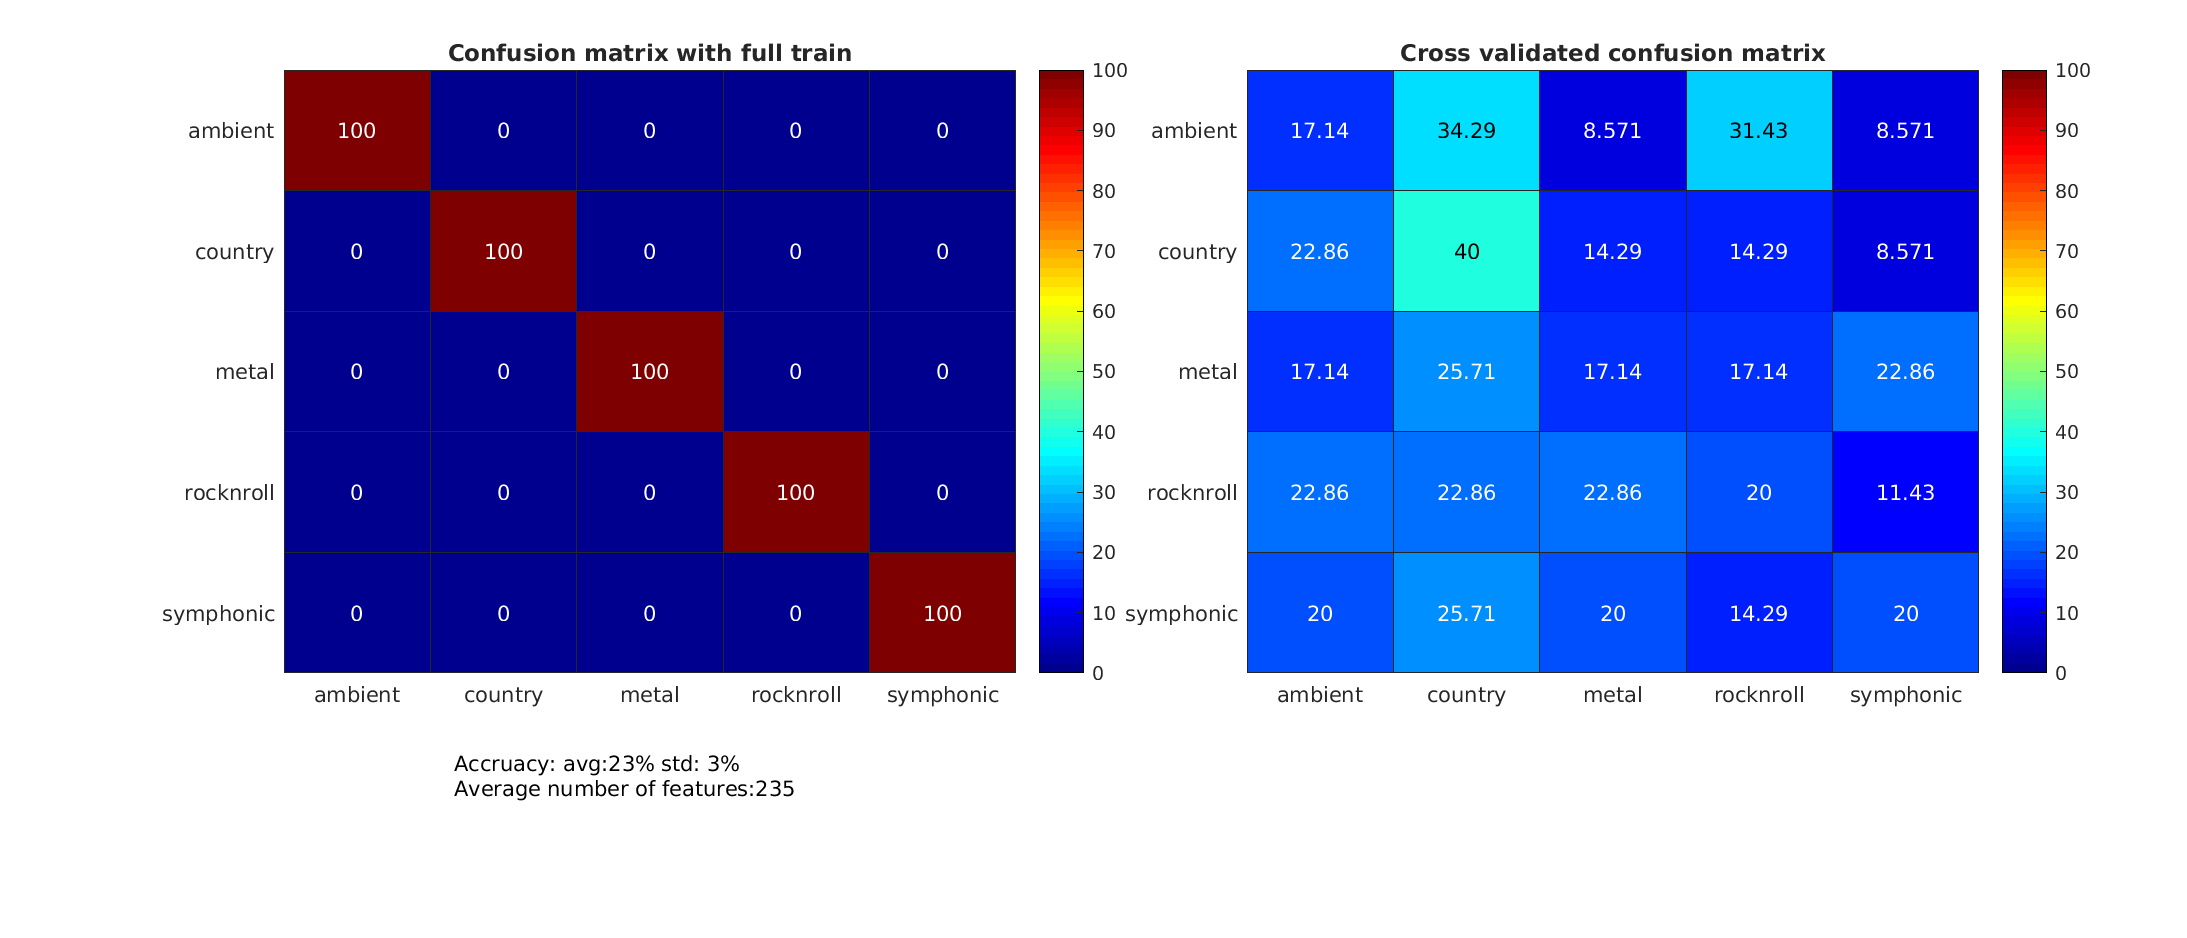
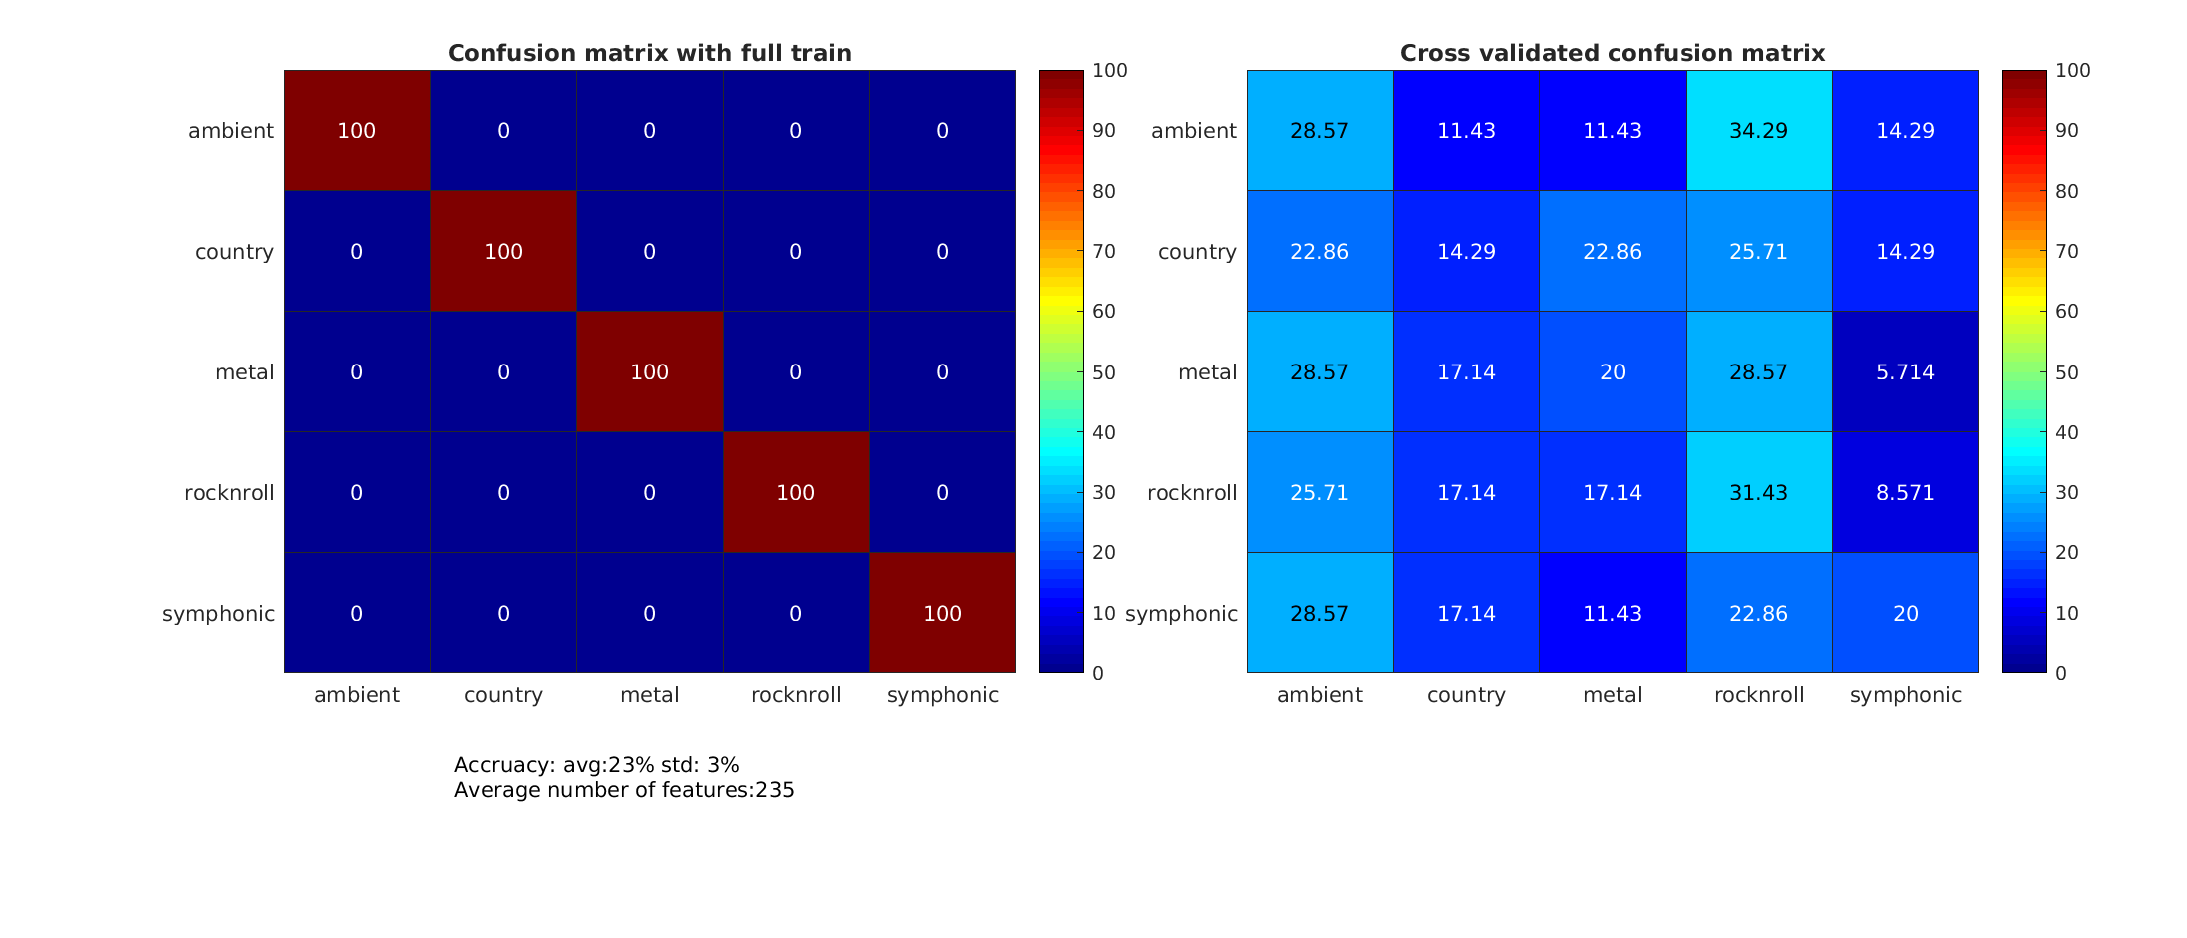
Complete phase4

Changed region(s): [[0.5597, 0.0618, 0.9017, 0.742], [0.2176, 0.8038, 0.3731, 0.8657]]

diff --git a/functions/analyzeForThreshold.m b/functions/analyzeForThreshold.m
@@ -1,10 +1,12 @@
-function Predicted_Label = analyzeForThreshold(...
+function [Predicted_Label, train_accr, val_accr] = analyzeForThreshold(...
     train_X, ...
     train_y, ...
     test_X, ...
     p_values_cross_val, ...
     p_values_no_cross_val, ...
-    threshold)
+    threshold, ...
+    model_type, ...
+    generate_pic)
 
     %load root
     [folder, ~, ~] = fileparts(which('analyzeForThreshold'));
@@ -12,11 +14,13 @@ function Predicted_Label = analyzeForThreshold(...
     %create file for output
     [status, ~, ~] = mkdir(strcat(root,'output'));
     assert(status == 1, 'output directory creation failed');
-    [status, ~, ~] = mkdir(strcat(root,'output/LDA/'));
+    [status, ~, ~] = mkdir(strcat(root,'output/', model_type));
     assert(status == 1, 'output directory creation failed');
+    
+    labels = {'ambient', 'country', 'metal', 'rocknroll', 'symphonic'};
 
-    predict_y = trainModel(train_X, train_y, train_X, p_values_no_cross_val, threshold);
-    confusion_matrix_no_cross_val = confusionmat(train_y, predict_y);
+    predict_y = trainModel(train_X, train_y, train_X, p_values_no_cross_val, threshold, model_type);
+    confusion_matrix_no_cross_val = confusionmat(train_y, predict_y, 'order', labels);
 
     confusion_matrix = zeros(5, 5);
     accuracies = zeros(1, 5);
@@ -28,12 +32,15 @@ function Predicted_Label = analyzeForThreshold(...
         train_crop_y = train_y(~out_data);
         val_X = train_X(out_data,:);
         val_y = train_y(out_data);
-        predict_y = trainModel(train_crop_X, train_crop_y, val_X, p_values_cross_val{i}, threshold);
-        cur_conf_mat = confusionmat(val_y, predict_y);
+        predict_y = trainModel(train_crop_X, train_crop_y, val_X, p_values_cross_val{i}, threshold, model_type);
+        cur_conf_mat = confusionmat(val_y, predict_y, 'order', labels);
         accuracies(i) = trace(cur_conf_mat) / 25;
         confusion_matrix = confusion_matrix + cur_conf_mat;
     end
     confusion_matrix = confusion_matrix / 7;
+    
+    train_accr = trace(confusion_matrix_no_cross_val) / (7 * 25);
+    val_accr = mean(accuracies);
 
     avg_features = 0;
     for i = 1:7
@@ -41,11 +48,13 @@ function Predicted_Label = analyzeForThreshold(...
     end
     avg_features = avg_features / 7;
     
-    Predicted_Label = trainModel(train_X, train_y, test_X, p_values_no_cross_val, threshold);
-    
+    Predicted_Label = trainModel(train_X, train_y, test_X, p_values_no_cross_val, threshold, model_type);
+    if ~generate_pic
+        return
+    end
     f1 = figure('visible', 'off');
     
-    labels = {'ambient', 'country', 'metal', 'rocknroll', 'symphonic'};
+    
     
     subplot(5, 2, [1 3 5 7]);
     heatmap(labels, labels, confusion_matrix_no_cross_val / 35 * 100, 'colormap', jet, 'ColorLimits', [0 100]);
@@ -67,6 +76,6 @@ function Predicted_Label = analyzeForThreshold(...
 
     f1.Position(3) = 1400;
     f1.Position(4) = 600;
-    saveas(f1, strcat(root,'output/LDA/', strrep(num2str(threshold, '%.3f'), '.', '_'), '.png'));
+    saveas(f1, strcat(root,'output/', model_type, '/', strrep(num2str(threshold, '%.3f'), '.', '_'), '.png'));
     close(f1);
 end

diff --git a/functions/trainModel.m b/functions/trainModel.m
@@ -1,12 +1,29 @@
-function test_y = trainModel(train_X, train_y, test_X, p_values, threshold)
+function test_y = trainModel(train_X, train_y, test_X, p_values, threshold, model_type)
     nonzero_features = any(train_X);
     train_X = train_X(:, nonzero_features);
     test_X = test_X(:, nonzero_features);
-    model = fitcdiscr(train_X(:, p_values < threshold), train_y);
-    test_y = model.predict(test_X(:, p_values < threshold));
-    assert(strcmp(model.ClassNames{1}, 'ambient') == 1);
-    assert(strcmp(model.ClassNames{2}, 'country') == 1);
-    assert(strcmp(model.ClassNames{3}, 'metal') == 1);
-    assert(strcmp(model.ClassNames{4}, 'rocknroll') == 1);
-    assert(strcmp(model.ClassNames{5}, 'symphonic') == 1);
+    train_X = train_X(:, p_values < threshold);
+    test_X = test_X(:, p_values < threshold);
+    if strcmp(model_type, 'LDA') == 1
+        model = fitcdiscr(train_X, train_y);
+        test_y = model.predict(test_X);
+        assert(strcmp(model.ClassNames{1}, 'ambient') == 1);
+        assert(strcmp(model.ClassNames{2}, 'country') == 1);
+        assert(strcmp(model.ClassNames{3}, 'metal') == 1);
+        assert(strcmp(model.ClassNames{4}, 'rocknroll') == 1);
+        assert(strcmp(model.ClassNames{5}, 'symphonic') == 1);
+    else
+        labels = {'ambient', 'country', 'metal', 'rocknroll', 'symphonic'};
+        predict_score = zeros(size(test_X, 1), size(labels, 2));
+        for i = 1:size(labels, 2)
+            model = fitcsvm(train_X, strcmp(train_y, labels{i}));
+            [~, tmp] = model.predict(test_X);
+            predict_score(:, i) = tmp(:, 2);
+        end
+        [~, idx] = max(predict_score, [], 2);
+        test_y = cell(size(test_X, 1), 1);
+        for i = 1:size(test_X, 1)
+            test_y{i} = labels{idx(i)};
+        end
+    end
 end
